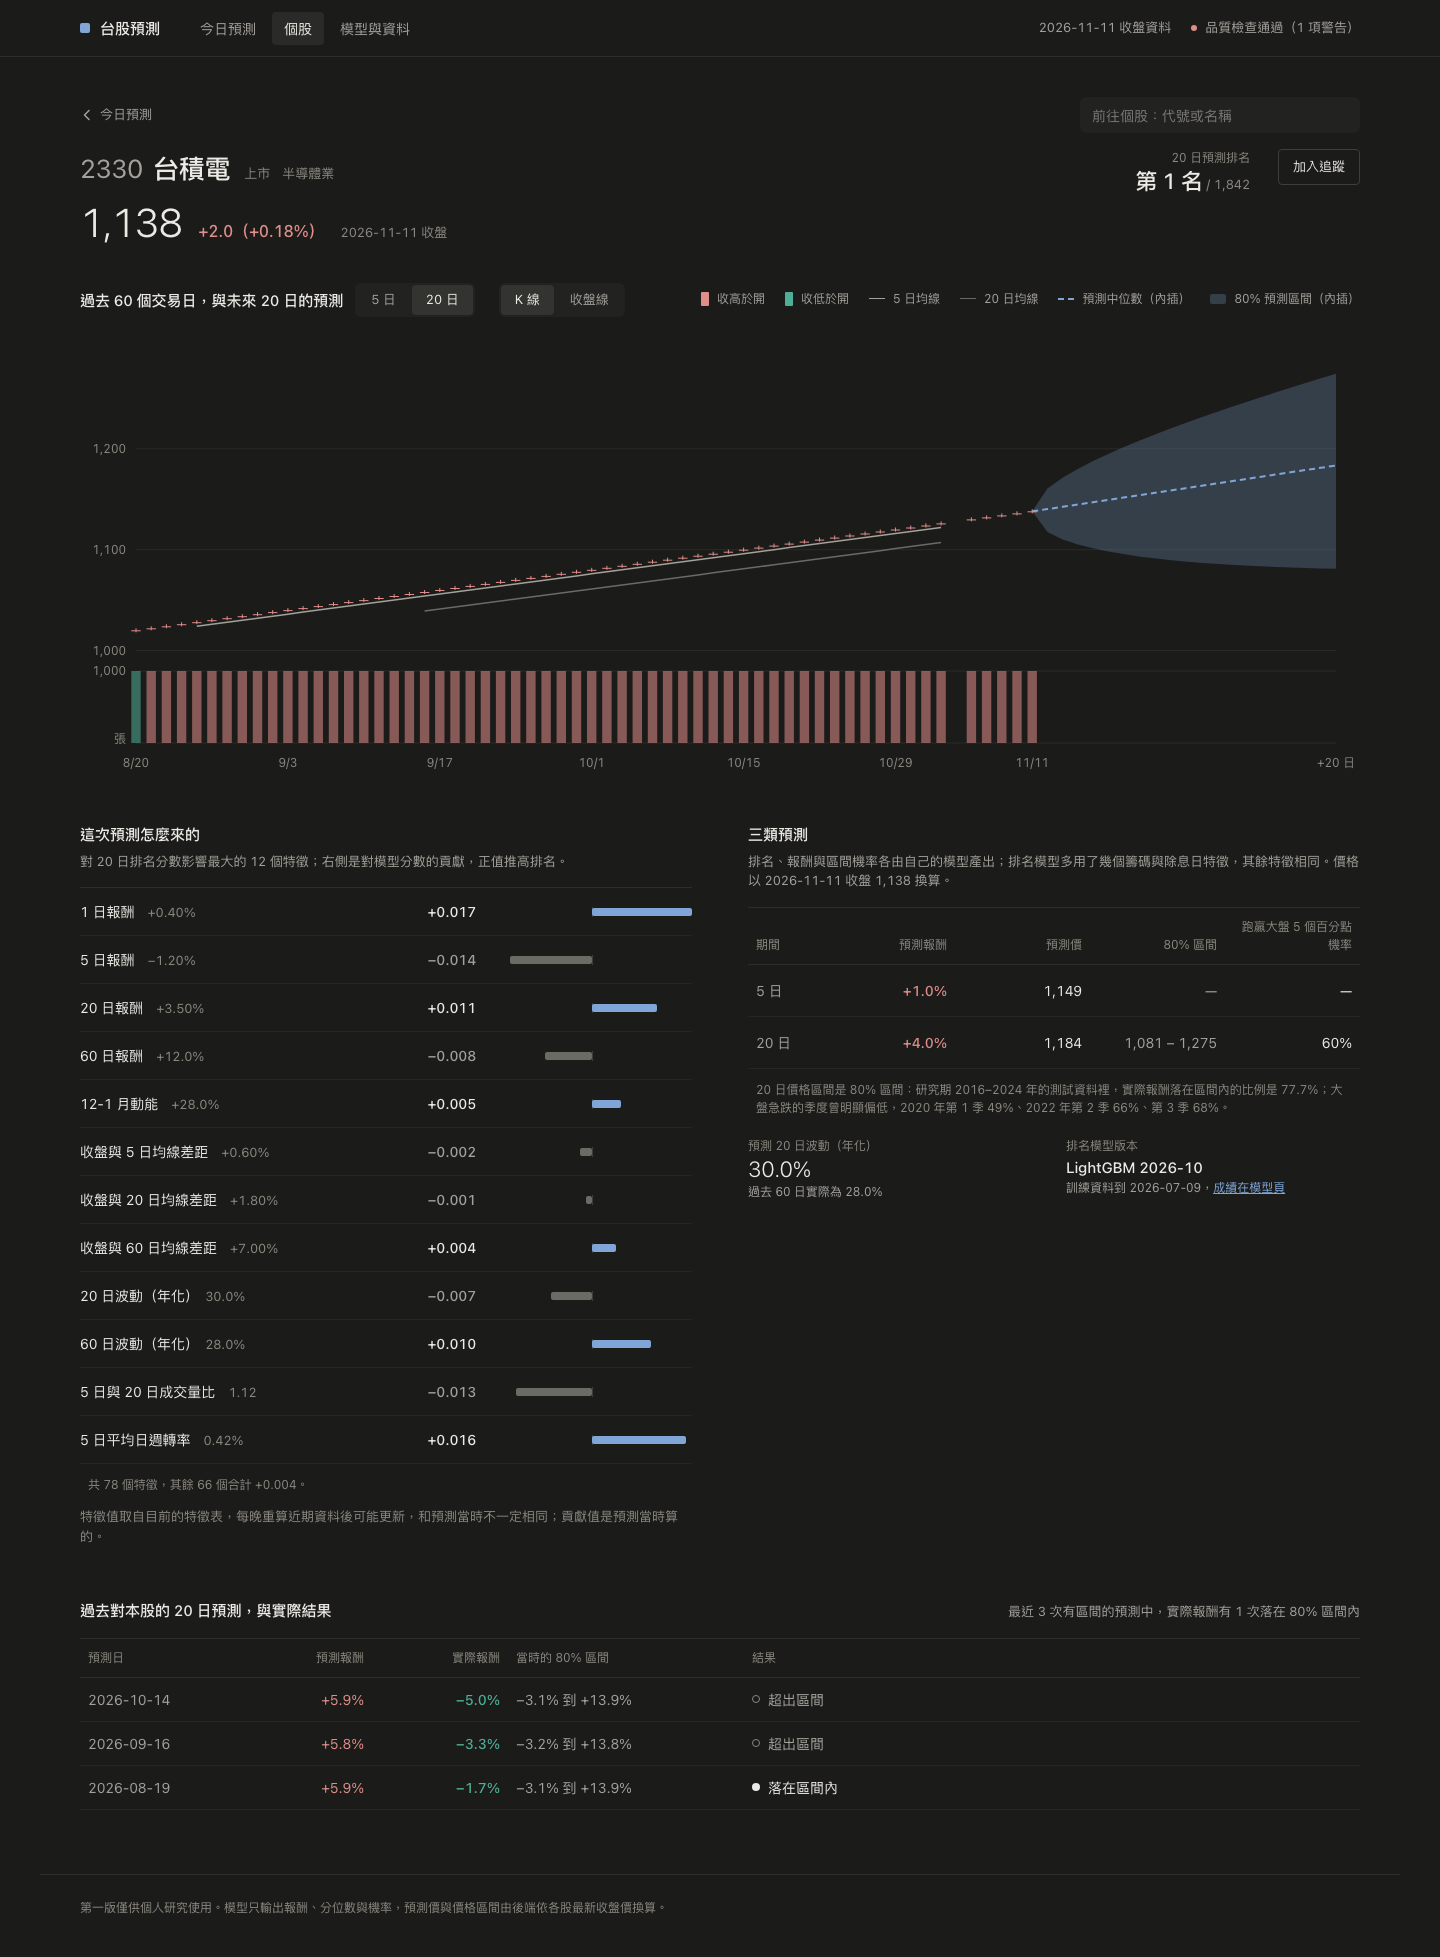
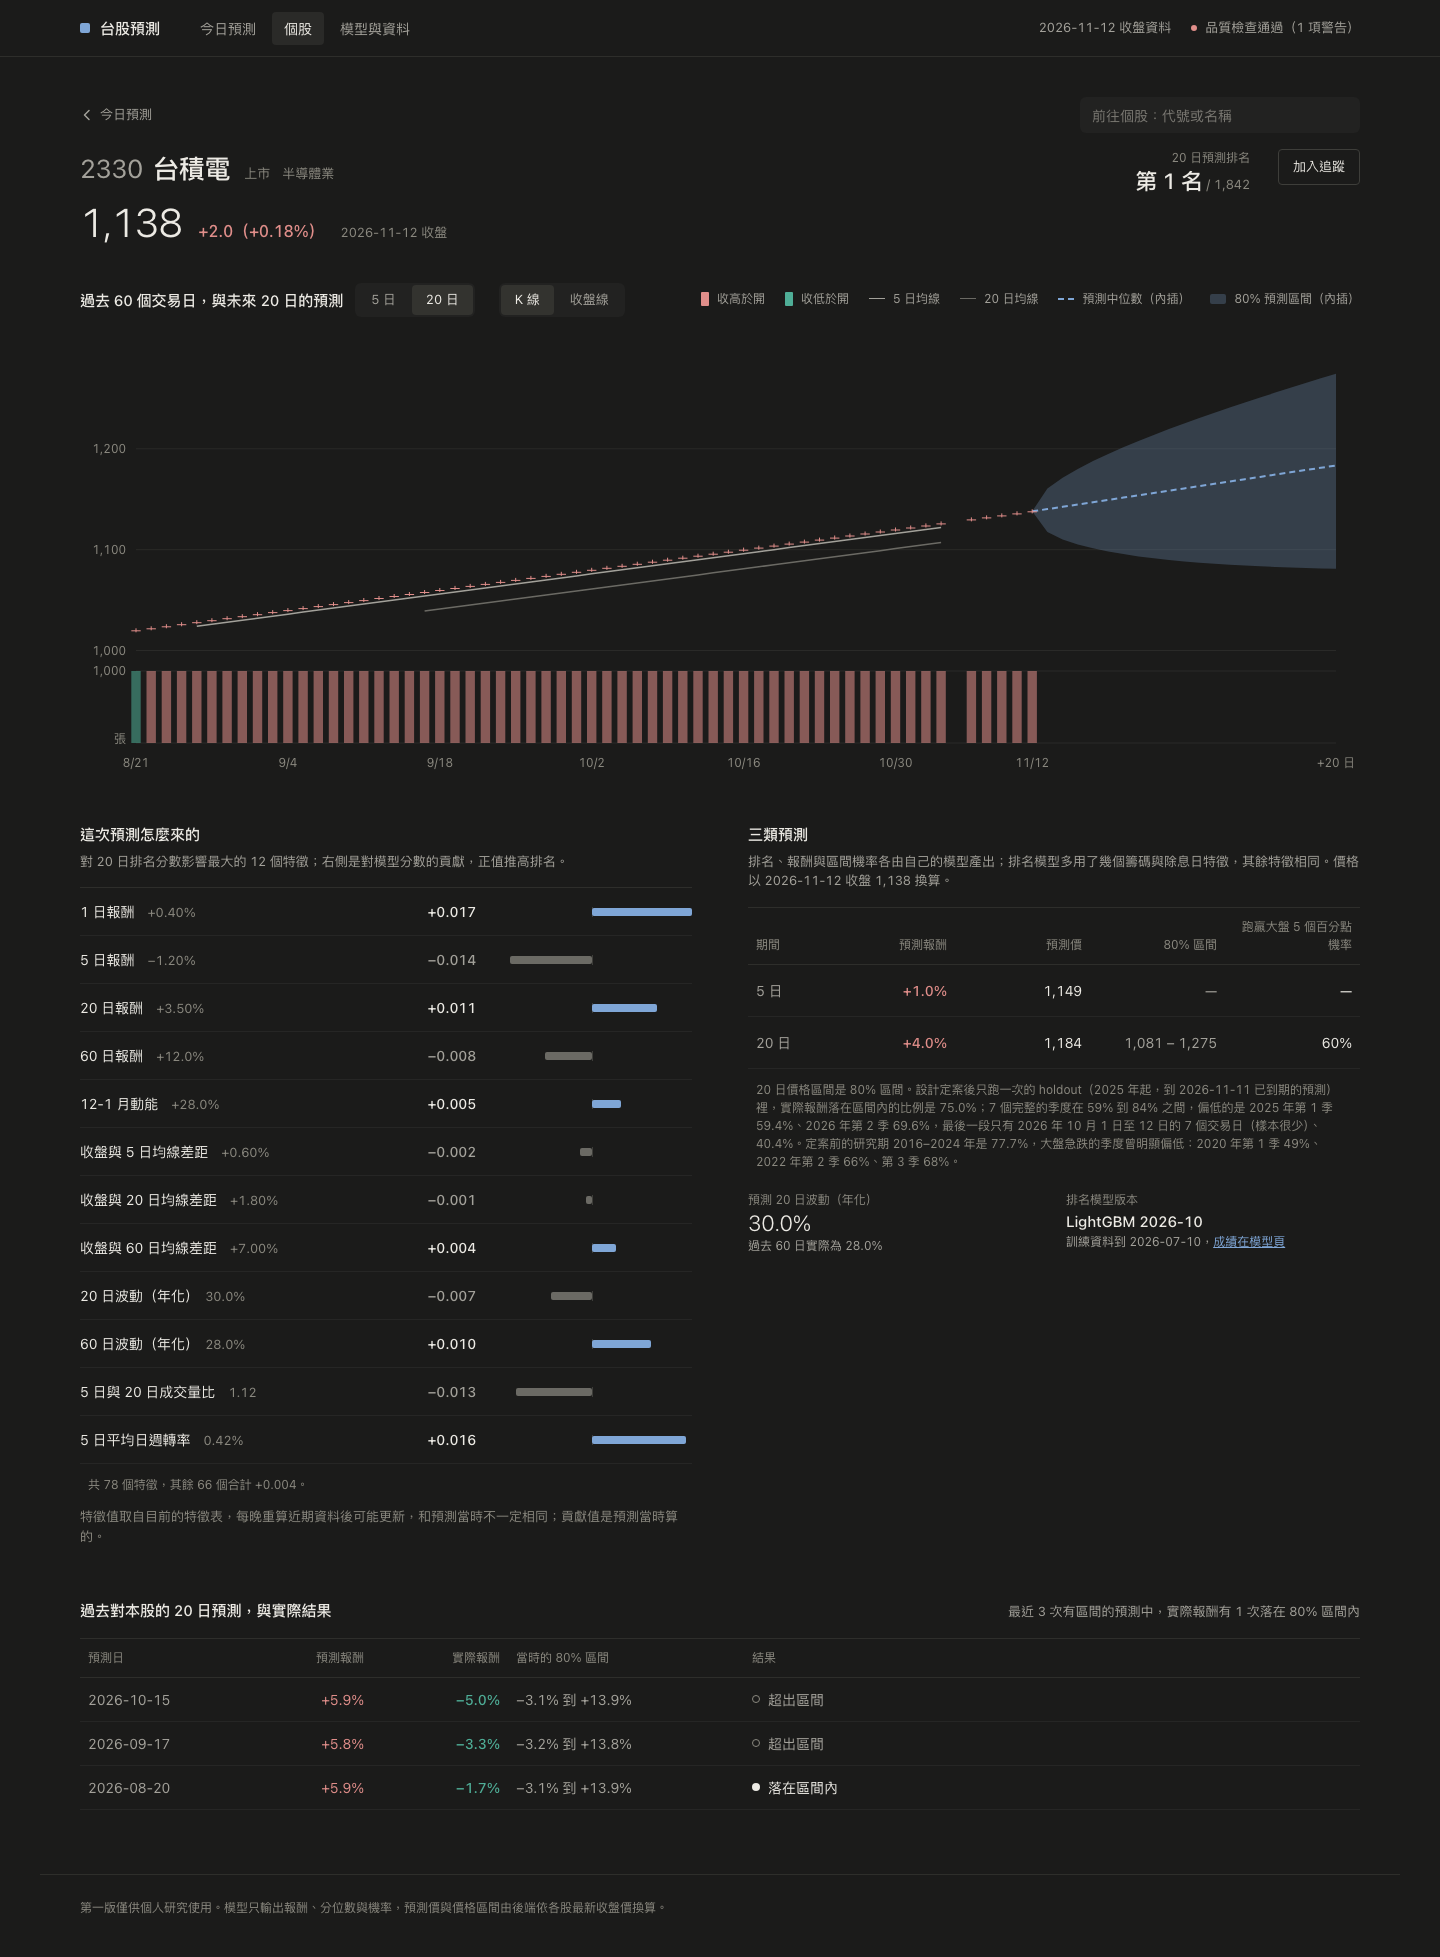
docs: mention the holdout figures and recapture the three views

Changed region(s): [[0.5, 0.5299, 0.9062, 0.6546]]

diff --git a/README.md b/README.md
@@ -24,7 +24,7 @@ The UI is a single page with three views, switched by the `#` fragment of the UR
 | Stock (個股) | `/#stock-2330` | Candlestick or closing-price chart, how this prediction came about (feature contributions), past predictions against actual outcomes | Prices; the prediction blocks need a live model |
 | Models and data (模型與資料) | `/#models` | The live models, monthly rank IC against the baseline, today's data updates, data-quality and model-output checks, the data correction log | ETL records; the model blocks need a live model |
 
-When no model is live yet, the prediction blocks show 「預測資料尚未產出」 ("predictions have not been produced yet"), while the candlestick chart, ETL records and quality checks are shown as usual. A model goes live only after its holdout verdict passes, or after the user releases a verdict that fell short: the empty ranking says so, and when the ranking is live but another model has no predictions for the day, a note above the table names the columns left blank. A model built on a released verdict shows the verdict, what fell short and the user's reason under the rows it covers on the models page (`holdout_release` in `/api/models`, without the report path), and the model-output checks keep each scope's latest `model_holdout_release` alert pinned. The today and stock pages name every model shown there that went live on a released verdict, or that was swapped in by force past promotion gates it failed (`released_verdict` and `forced_gates` on each entry of `models` in `/api/predictions` and `/api/stocks/<code>/predictions`), and point to the models page, where the forced swap's day, reason and failed gates sit under that model (`forced_promotion` in `/api/models`). The status bar at the top reads `/api/status`: when the day's quality checks report an error, no predictions are produced for that day; `quality.warnings` is the number of checks with warnings and `quality.warning_rows` is the number of rows with warnings.
+When no model is live yet, the prediction blocks show 「預測資料尚未產出」 ("predictions have not been produced yet"), while the candlestick chart, ETL records and quality checks are shown as usual. A model goes live only after its holdout verdict passes, or after the user releases a verdict that fell short: the empty ranking says so, and when the ranking is live but another model has no predictions for the day, a note above the table names the columns left blank. A model built on a released verdict shows the verdict, what fell short and the user's reason under the rows it covers on the models page (`holdout_release` in `/api/models`, without the report path), and the model-output checks keep each scope's latest `model_holdout_release` alert pinned. The today and stock pages name every model shown there that went live on a released verdict, or that was swapped in by force past promotion gates it failed (`released_verdict` and `forced_gates` on each entry of `models` in `/api/predictions` and `/api/stocks/<code>/predictions`), and point to the models page, where the forced swap's day, reason and failed gates sit under that model (`forced_promotion` in `/api/models`). The note beside the 20-day interval says how often the 80% interval held: first on the holdout, which ran once after the design was frozen, then over the research period. On the models page the monthly rank IC chart and the rank score column name the holdout when their figures come from it instead of a research run (`meta.source` in `/api/models/ic-monthly`, `metric_source` in `/api/models`); before any ranking model is live the chart shows the holdout months. The status bar at the top reads `/api/status`: when the day's quality checks report an error, no predictions are produced for that day; `quality.warnings` is the number of checks with warnings and `quality.warning_rows` is the number of rows with warnings.
 
 ## Data and model pipeline
 
